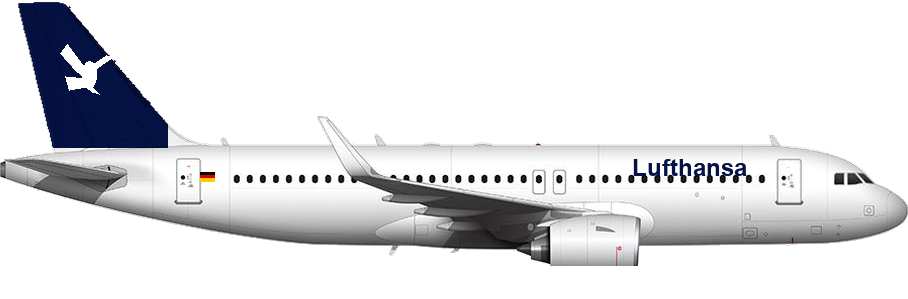
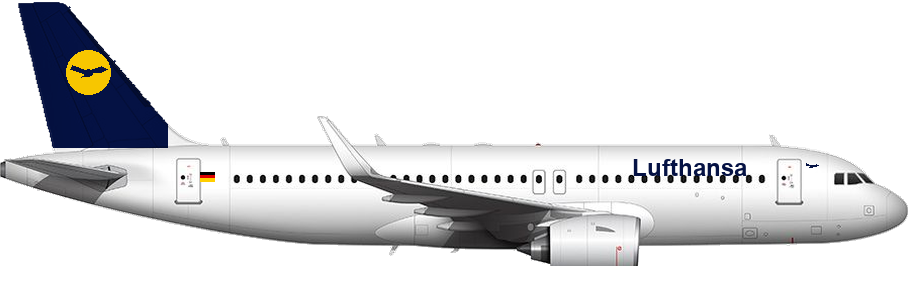
Match Lufthansa to the yellow-circle crane photo.
Use the dark-blue tail with the yellow disc and Kranich, not a white bird on blue.

Changed region(s): [[0.0617, 0.1505, 0.1233, 0.3311]]

diff --git a/flight-simulator-2026/index.html b/flight-simulator-2026/index.html
@@ -153,7 +153,7 @@
   <script src="js/input.js?v=hump38"></script>
   <script src="js/hud.js?v=hump38"></script>
   <script src="js/loading.js?v=hump38"></script>
-  <script src="js/game.js?v=a320liv4"></script>
+  <script src="js/game.js?v=a320liv5"></script>
   <script src="js/mobile.js?v=hump38"></script>
   <script src="js/menu.js?v=free1"></script>
   <script src="js/main.js"></script>

diff --git a/flight-simulator-2026/js/game.js b/flight-simulator-2026/js/game.js
@@ -58,7 +58,7 @@ class Game {
       const load = (file, key) => {
         const img = new Image();
         img.onload = () => { pack[key] = img; };
-        img.src = `${base}${file}?v=liv4`;
+        img.src = `${base}${file}?v=liv5`;
       };
       load(`${prefix}-gearup.png`, "up");
       load(`${prefix}-geardown.png`, "down");
